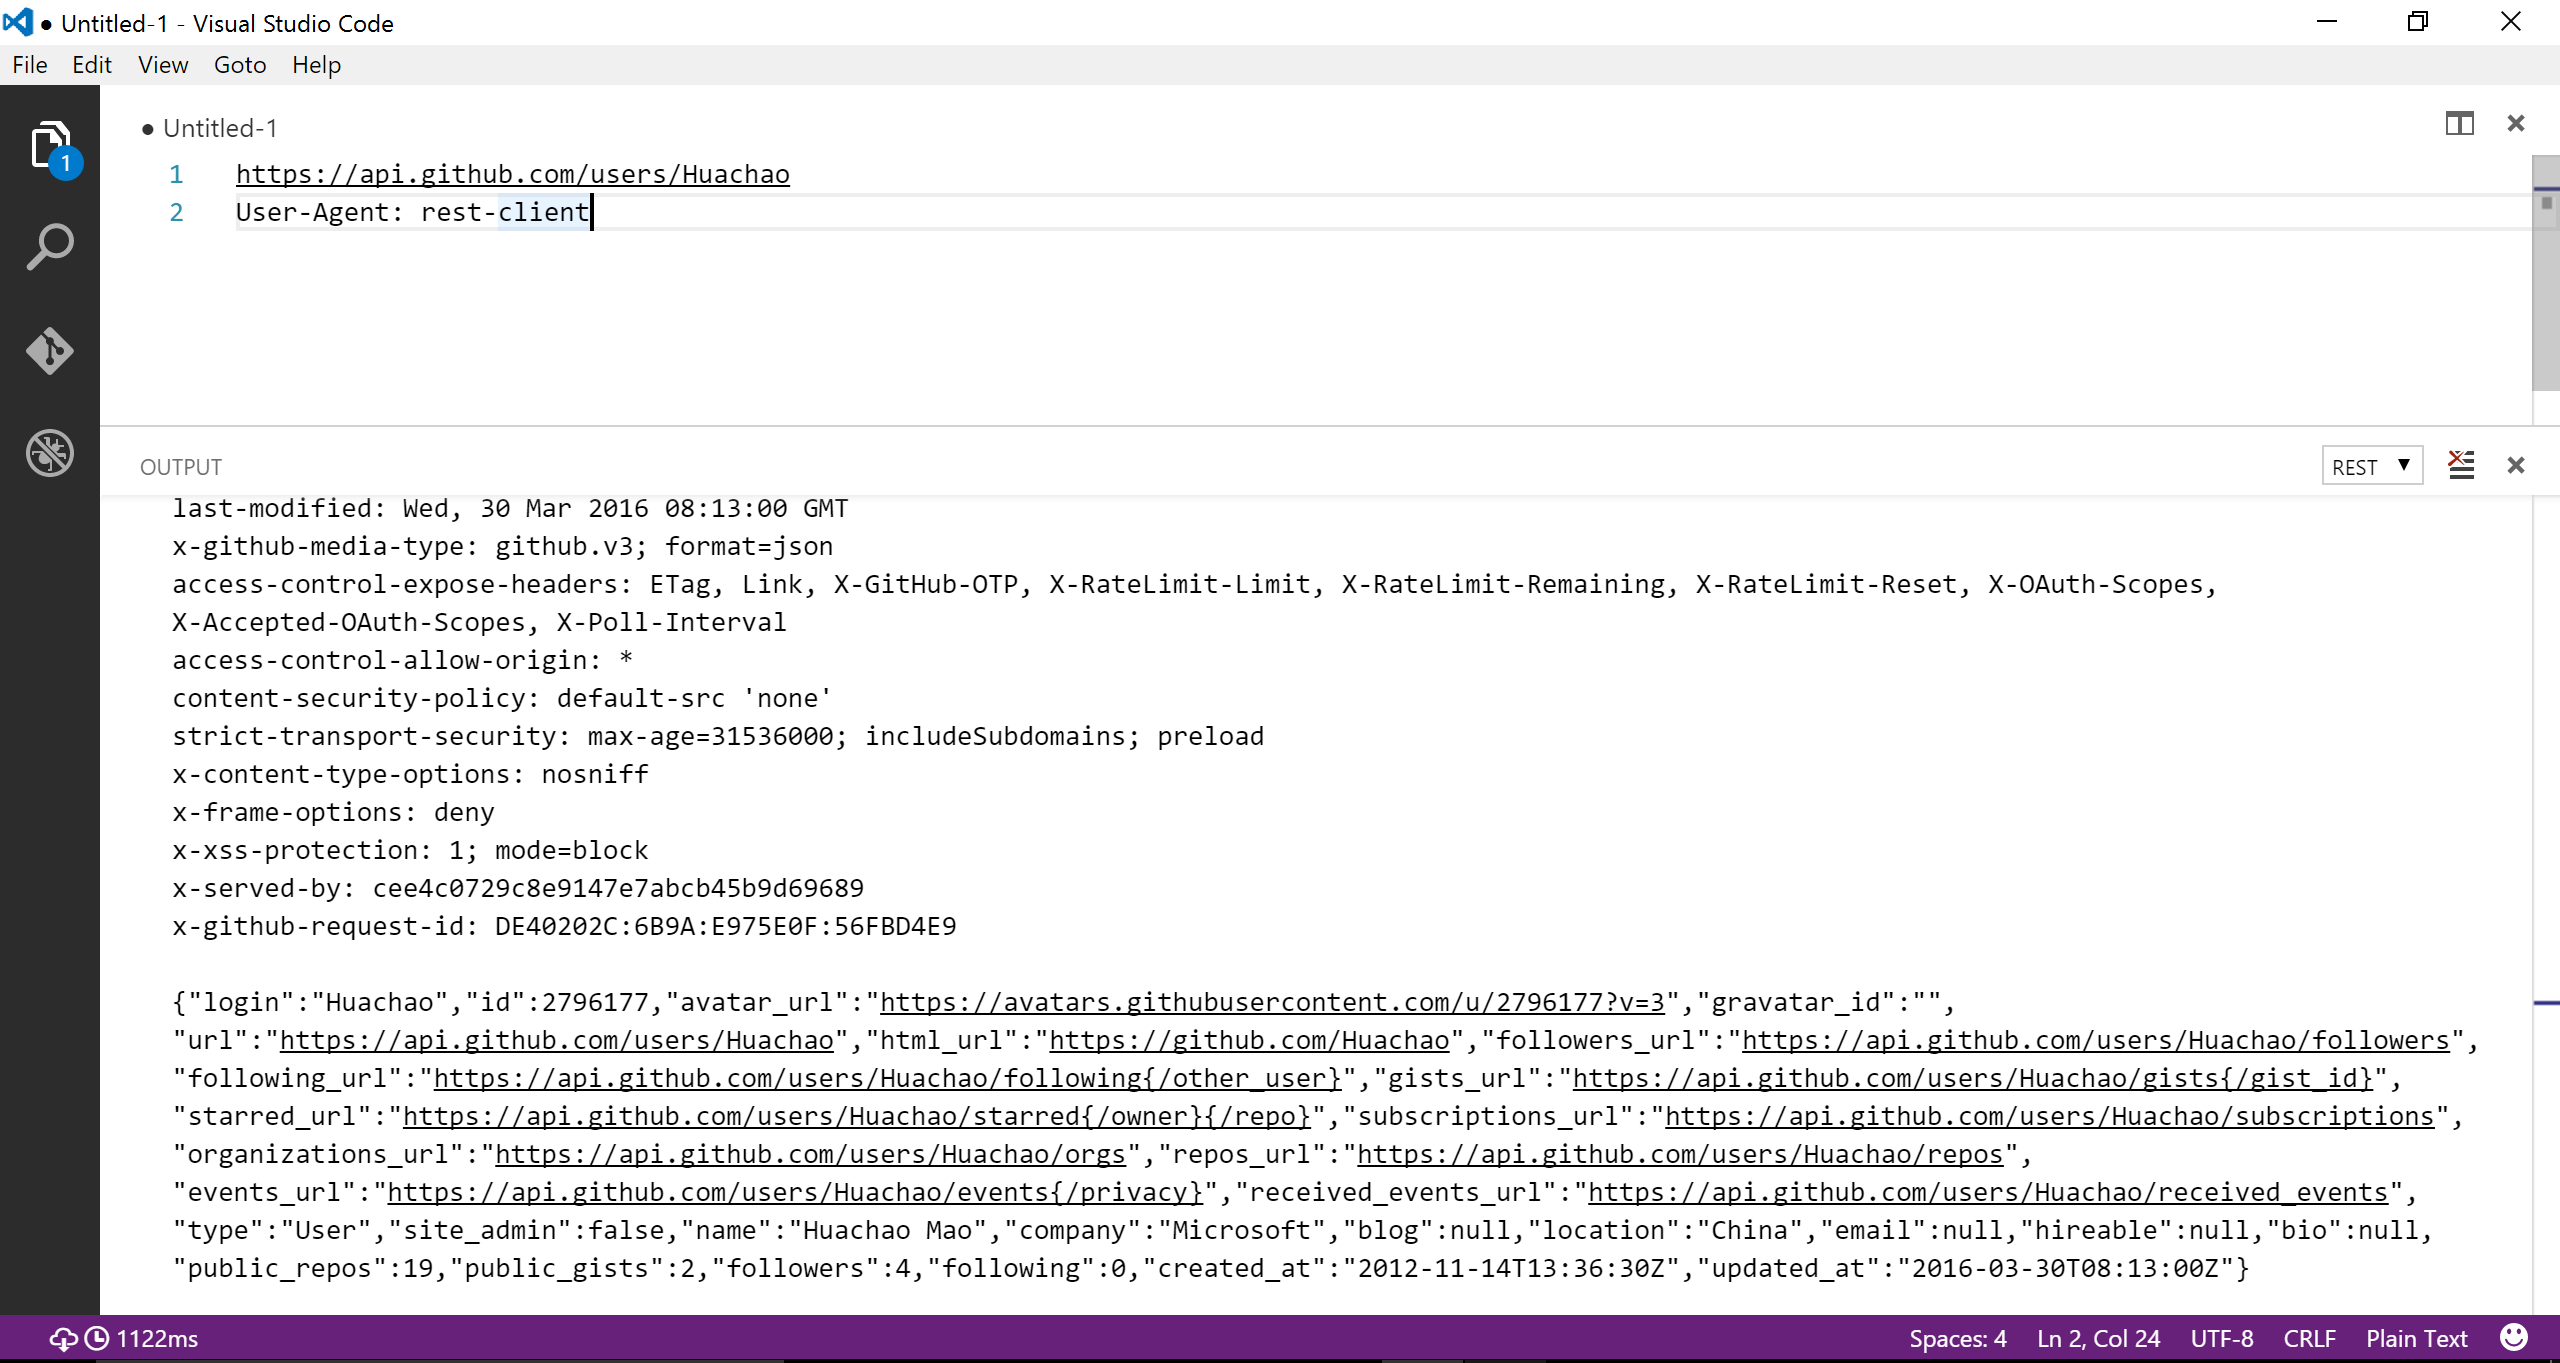
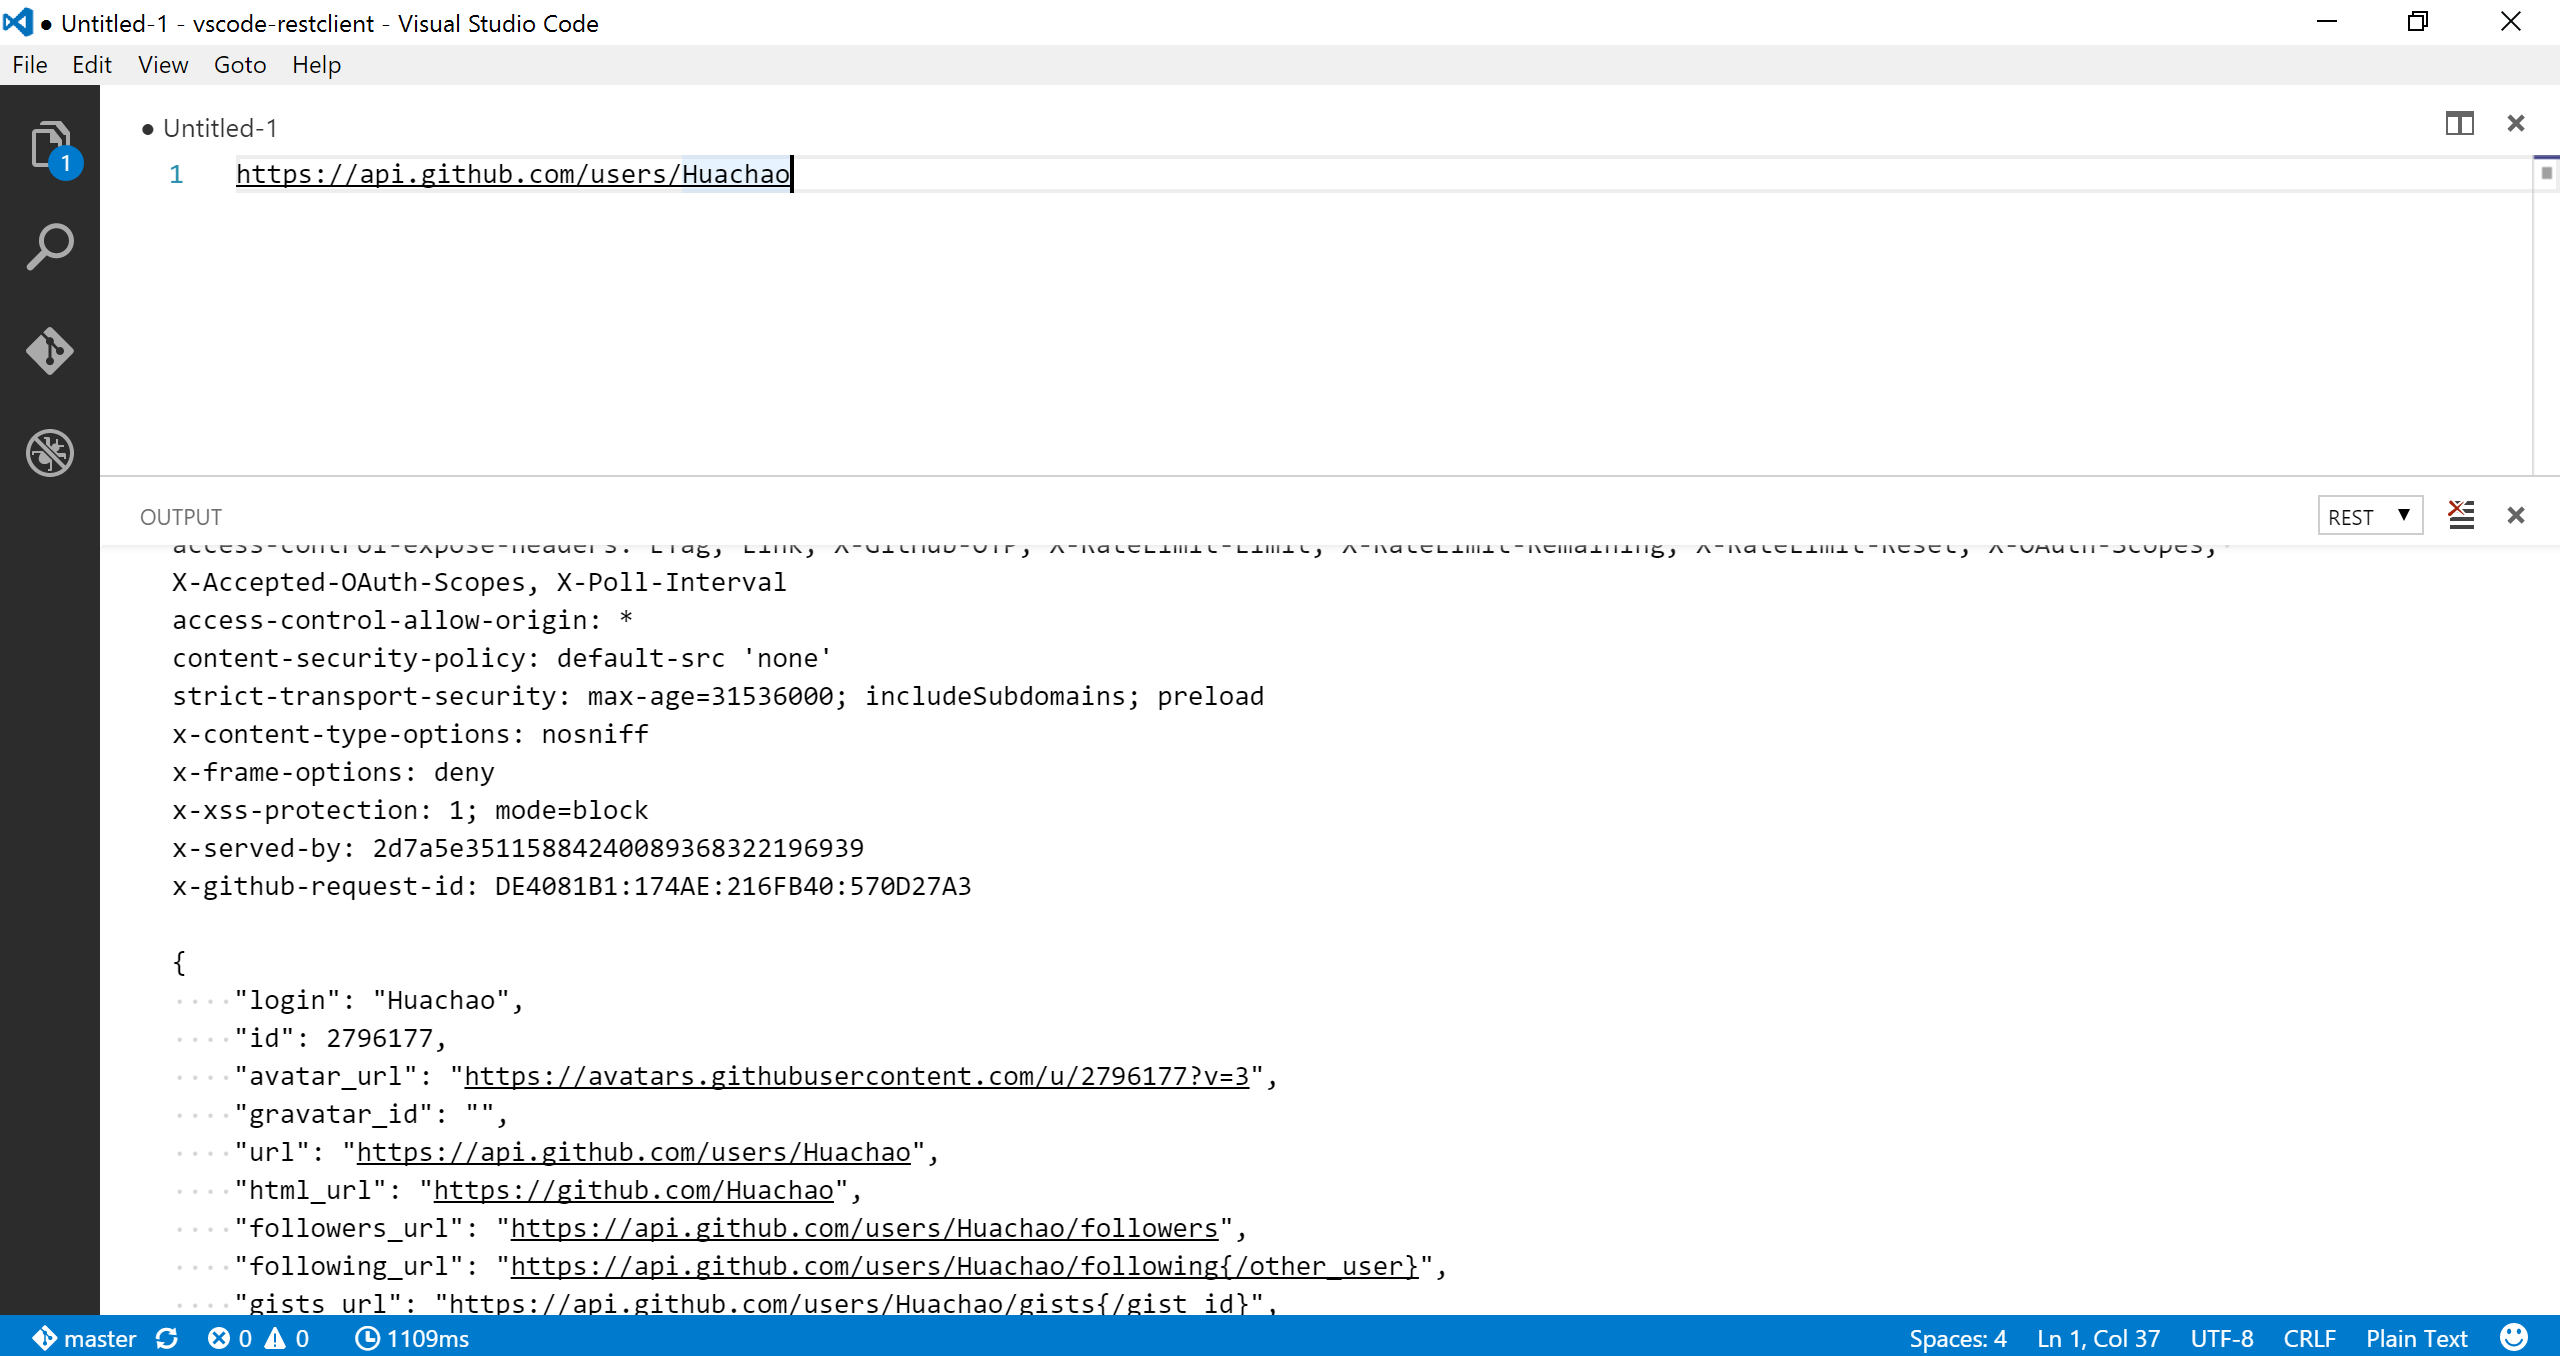
update image in readme.md

diff --git a/README.md b/README.md
@@ -71,6 +71,9 @@ authorization: token xxx
 [MIT License](LICENSE)
 
 ## Change Log
+## 0.1.1
+* Update image in README.md
+
 ## 0.1.0
 * Refactor code for rest call
 * Beautify JSON response
